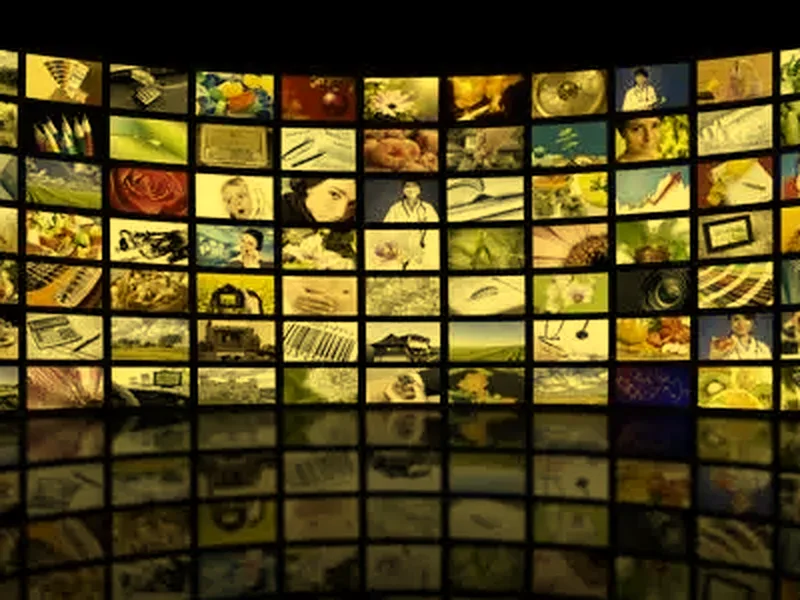
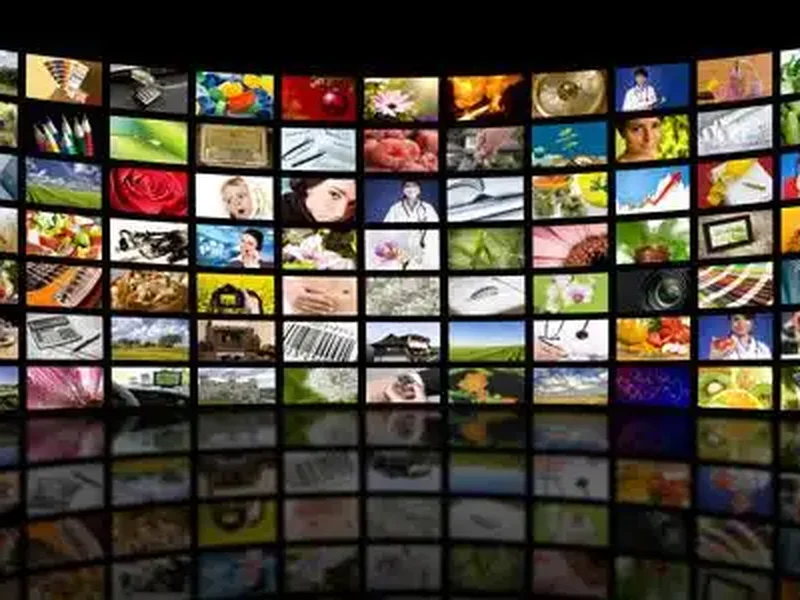
Televisión: imagen original sin el virado a amarillo (v109)
Claude-Session: https://claude.ai/code/session_014bE1bAw6156sv1W7yaK5pr

diff --git a/site/sw.js b/site/sw.js
@@ -1,1 +1,1 @@
-const CACHE="yellow-control-v108";const STATIC=["/","/control.css","/app.js","/manifest.webmanifest","/yellow-app-icon-180.png?v=3"];self.addEventListener("install",e=>{self.skipWaiting();e.waitUntil(caches.open(CACHE).then(c=>c.addAll(STATIC)))});self.addEventListener("activate",e=>e.waitUntil(caches.keys().then(keys=>Promise.all(keys.filter(k=>k!==CACHE&&k.startsWith("yellow-control-")).map(k=>caches.delete(k)))).then(()=>self.clients.claim())));self.addEventListener("fetch",e=>{const u=new URL(e.request.url);if(u.pathname.startsWith("/api/")||u.pathname==="/sw.js")return;e.respondWith(fetch(e.request).then(r=>{const c=r.clone();caches.open(CACHE).then(x=>x.put(e.request,c));return r}).catch(()=>caches.match(e.request)))})
+const CACHE="yellow-control-v109";const STATIC=["/","/control.css","/app.js","/manifest.webmanifest","/yellow-app-icon-180.png?v=3"];self.addEventListener("install",e=>{self.skipWaiting();e.waitUntil(caches.open(CACHE).then(c=>c.addAll(STATIC)))});self.addEventListener("activate",e=>e.waitUntil(caches.keys().then(keys=>Promise.all(keys.filter(k=>k!==CACHE&&k.startsWith("yellow-control-")).map(k=>caches.delete(k)))).then(()=>self.clients.claim())));self.addEventListener("fetch",e=>{const u=new URL(e.request.url);if(u.pathname.startsWith("/api/")||u.pathname==="/sw.js")return;e.respondWith(fetch(e.request).then(r=>{const c=r.clone();caches.open(CACHE).then(x=>x.put(e.request,c));return r}).catch(()=>caches.match(e.request)))})

diff --git a/site/app.js b/site/app.js
@@ -1726,7 +1726,7 @@ async function admin(){
  let ok=await authenticate();if(!ok&&/(?:^|;\s*)nf_refresh=/.test(document.cookie)){await new Promise(r=>setTimeout(r,300));ok=await authenticate()}if(ok)route();if("serviceWorker"in navigator)ycServiceWorker()})();
 // Avisa cuando hay una versión nueva publicada, para no seguir trabajando con la antigua.
 // Versión de esta copia de la app. Debe coincidir con CACHE en sw.js (se cambian juntas en cada publicación).
-const YC_VERSION="yellow-control-v108";
+const YC_VERSION="yellow-control-v109";
 function ycShowUpdate(){if($("#ycUpdate"))return;const b=document.createElement("div");b.id="ycUpdate";b.className="yc-update";b.setAttribute("role","status");
  b.innerHTML='<span>Hay una versión nueva de Yellow Control.</span><button type="button" class="primary">Actualizar</button>';
  b.querySelector("button").onclick=()=>{if(typeof cart!=="undefined"&&cart.dirty&&cart.dirty.size&&!confirm("Hay cambios sin guardar en Cartelería. ¿Actualizar igualmente?"))return;location.reload()};document.body.appendChild(b)}
